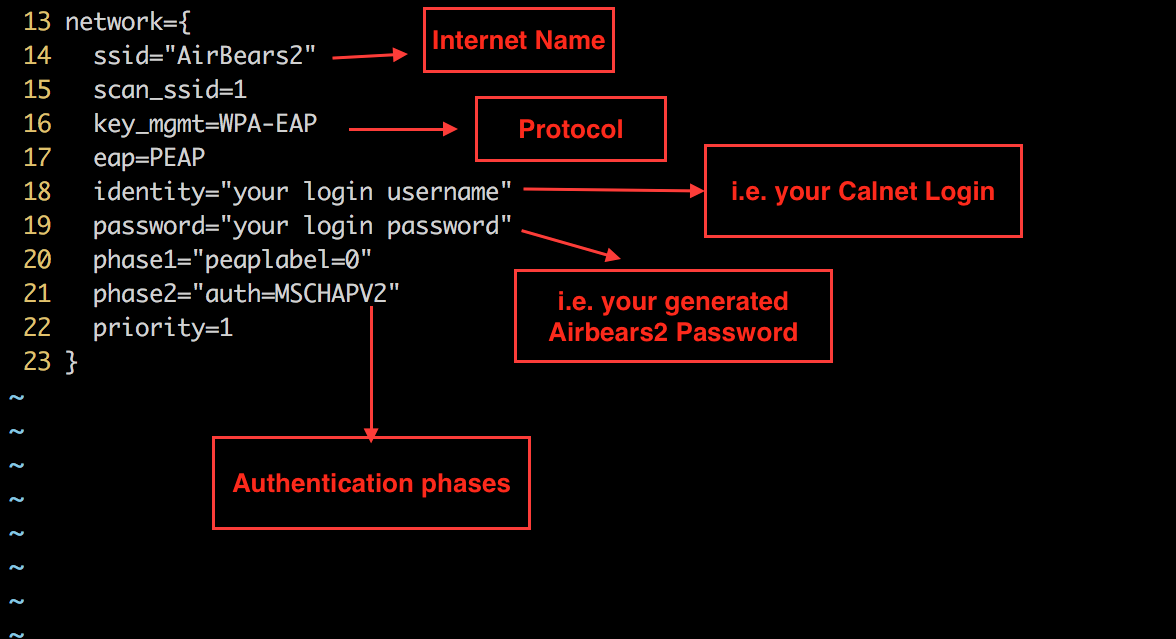
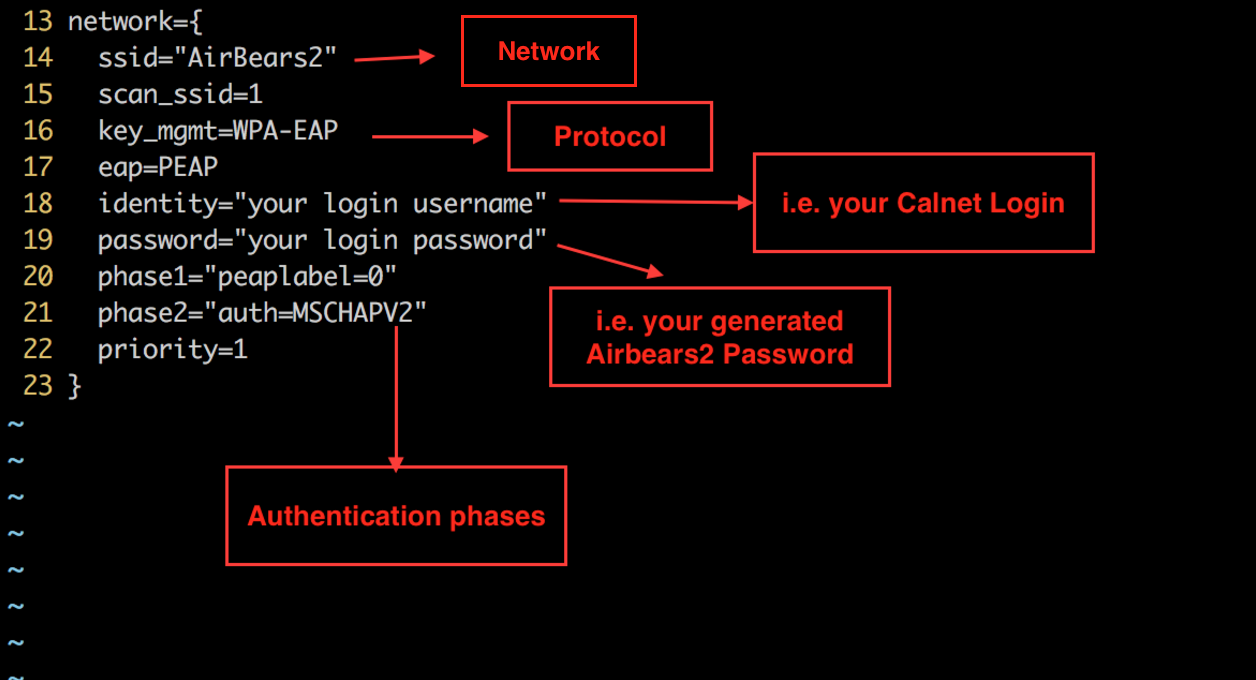
reannotated, added sample_noobs, updated img sizes

diff --git a/setting_up_raspberry_pi/README.md b/setting_up_raspberry_pi/README.md
@@ -21,7 +21,7 @@ You can purchase a SD card with Noobs installed, or you can follow [these instru
 After, insert the SD card to the bottom of the Raspberry Pi, connect HDMI, a mouse, and a keyboard, then power it on. 
 
 You should see:   
-<img src="./sample_noobs.png"/ style="width: 600; height: 444">
+<img src="./sample_noobs.png"/ style="width: 650; height: 481">
 
 
 Continue through and your Raspberry Pi should be up and running.
@@ -80,7 +80,7 @@ Open the file with:
 
 And add the following:  
 
-<img src=./annotated_wpa_supplicant.png width="700" height="350">
+<img src=./annotated_wpa_supplicant.png width="900" height="489">
 
 
 ##Once Connected to the Internet
